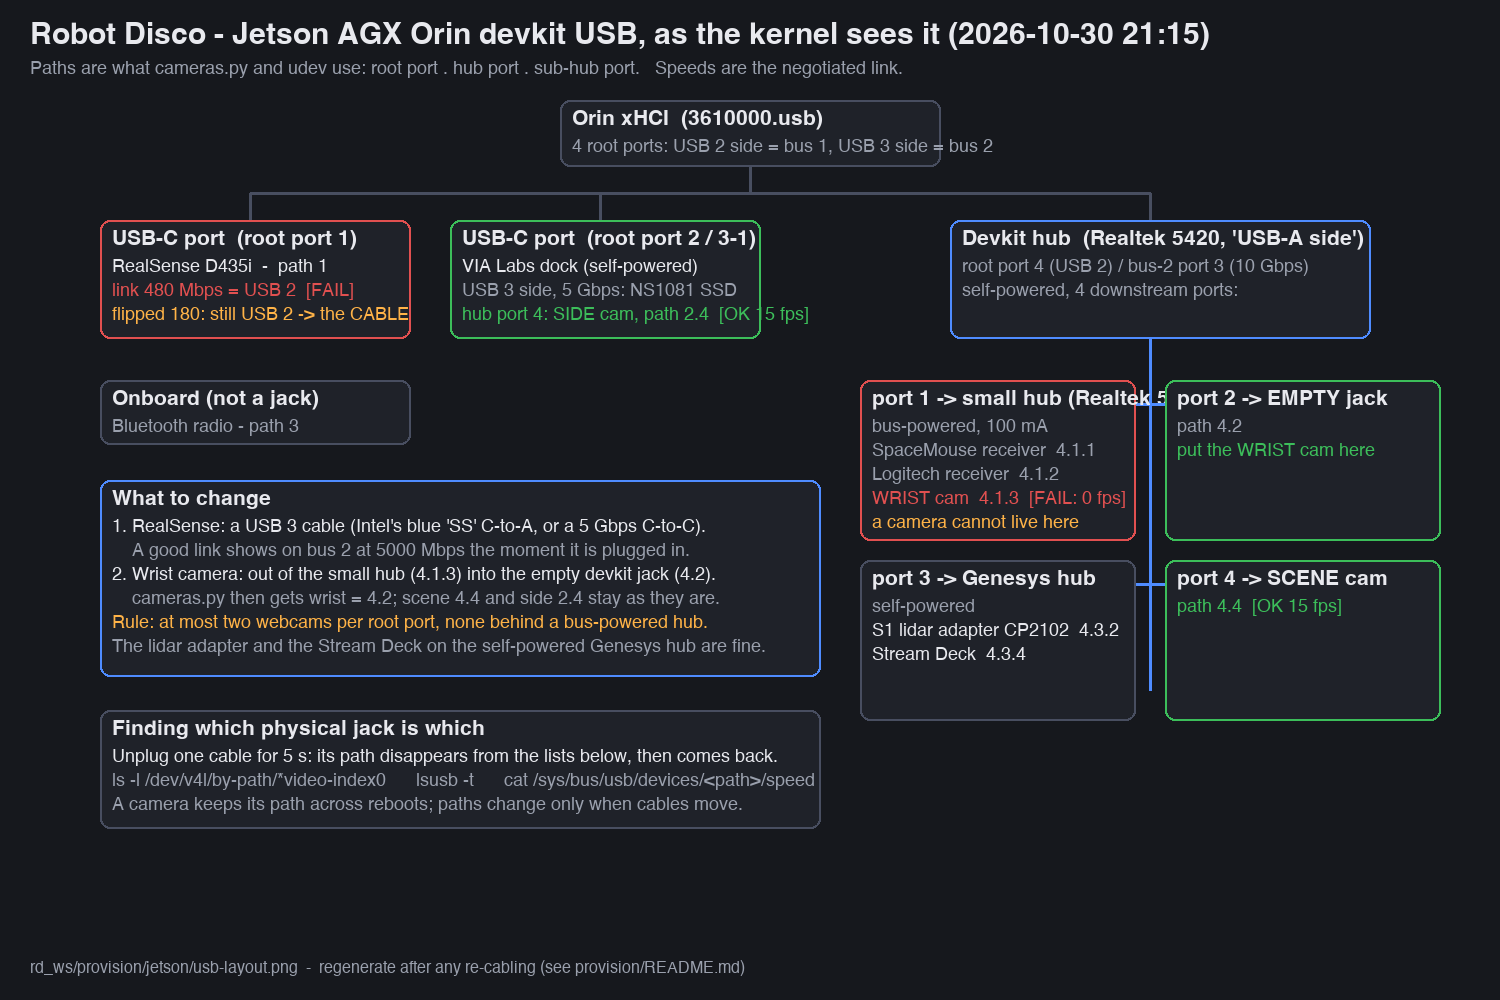
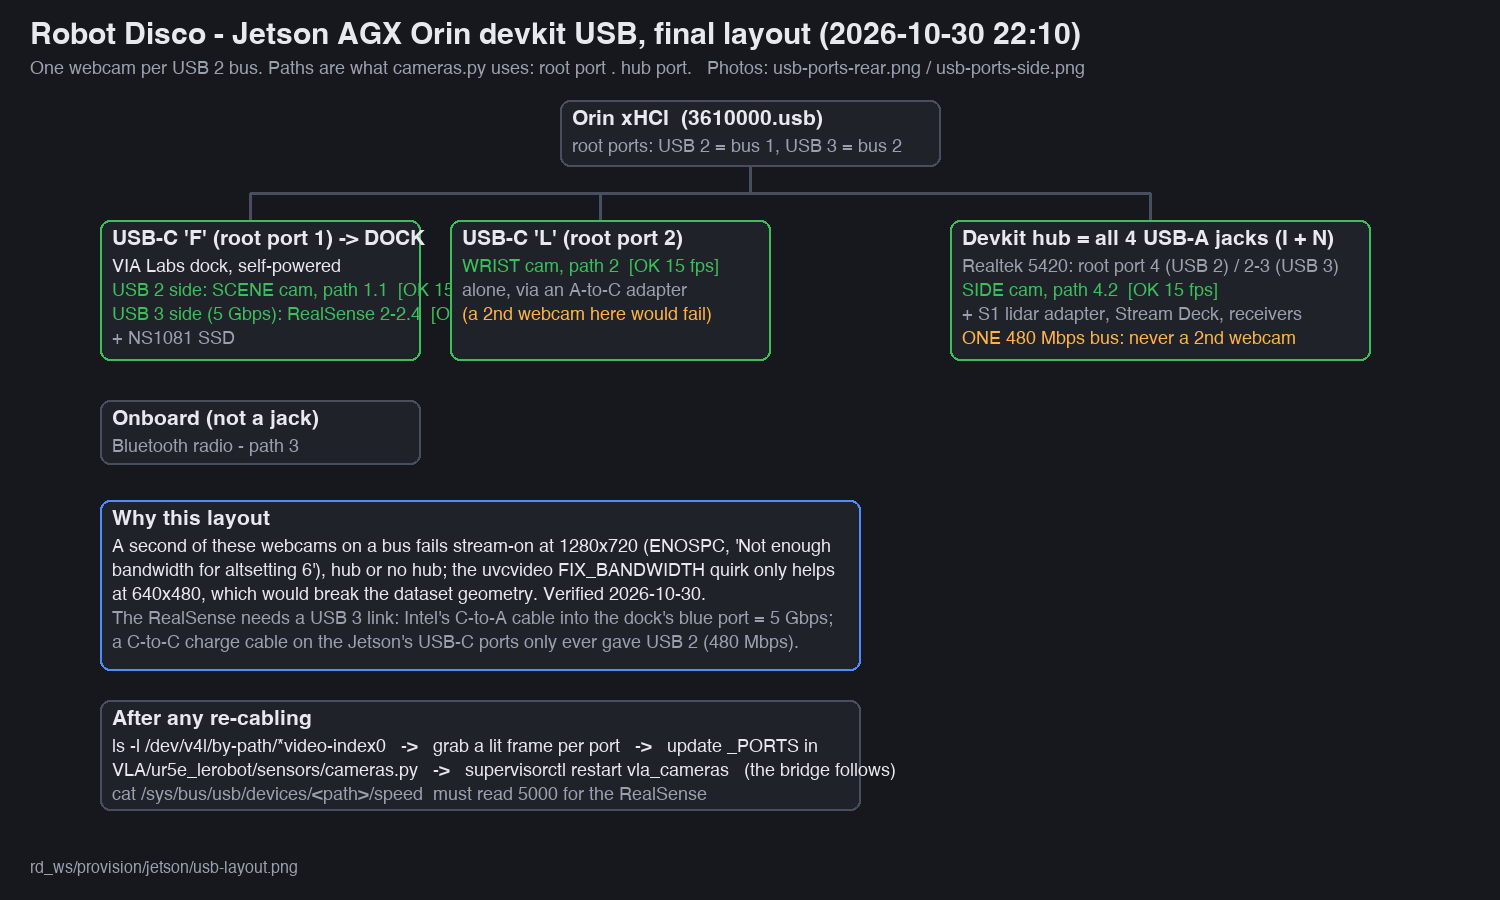
provision: USB photos + kernel map for the final cabling (scene in the dock, wrist alone on USB-C L, side on USB-A; RealSense on the dock's USB 3 port)

diff --git a/provision/README.md b/provision/README.md
@@ -264,20 +264,18 @@ in order (base, localization, navigation, the rest), re-seed `/initialpose`.
 side N) all hang off the devkit's one onboard hub = ONE 480 Mbps USB 2 bus; only one of these webcams
 fits there at 1280x720 (verified 2026-10-30: the second one's stream-on fails with ENOSPC, hub or no
 hub, and the uvcvideo FIX_BANDWIDTH quirk only helps at 640x480). The two USB-C ports are separate
-root ports. So: scene on a USB-A jack, side in the dock on one USB-C (with the RealSense on the dock's
-USB 3 port via Intel's C-to-A cable), wrist alone on the other USB-C.
+root ports. Final cabling (2026-10-30): scene in the dock on USB-C F (path 1.1; the RealSense on the
+dock's USB 3 port via Intel's C-to-A cable, 5 Gbps), wrist alone on USB-C L (path 2), side on a USB-A
+jack (path 4.2) with the lidar adapter, Stream Deck and receivers.
 
 ![Jetson USB map as the kernel sees it](jetson/usb-layout.png)
 
 What `cameras.py` keys on is the USB *port path* (`platform-3610000.usb-usb-0:<root>.<hub>.<sub>`), so a
 camera keeps working across reboots but not across re-cabling. Rules learned on this box: at most two
 webcams per root port (each reserves its full USB 2 alt-setting), none behind a bus-powered hub; the
-RealSense needs a true USB 3 link (5000 Mbps on bus 2) or its depth+colour profile fails. Current map:
-side 2.4 (VIA dock on a USB-C port), scene 4.4 and the empty jack 4.2 on the devkit's own hub
-(Realtek 5420, the USB-A side), the S1 adapter + Stream Deck on the self-powered Genesys hub (4.3.x).
-After any re-cabling: `ls -l /dev/v4l/by-path/*video-index0`, grab a lit frame per port, update
-`_PORTS` in `VLA/ur5e_lerobot/sensors/cameras.py`, restart `vla_cameras` (and the camera ROS bridge if
-it was started before the network came up).
+RealSense needs a true USB 3 link (5000 Mbps on bus 2) or its depth+colour profile fails. After any re-cabling: `ls -l /dev/v4l/by-path/*video-index0`, grab a lit frame per port, update
+`_PORTS` in `VLA/ur5e_lerobot/sensors/cameras.py`, restart `vla_cameras` (the camera ROS bridge
+follows by itself since VLA 2747290; restart it only if it was started before the network came up).
 
 ## Disk layout on the Jetson (since 2026-10-26)
 
